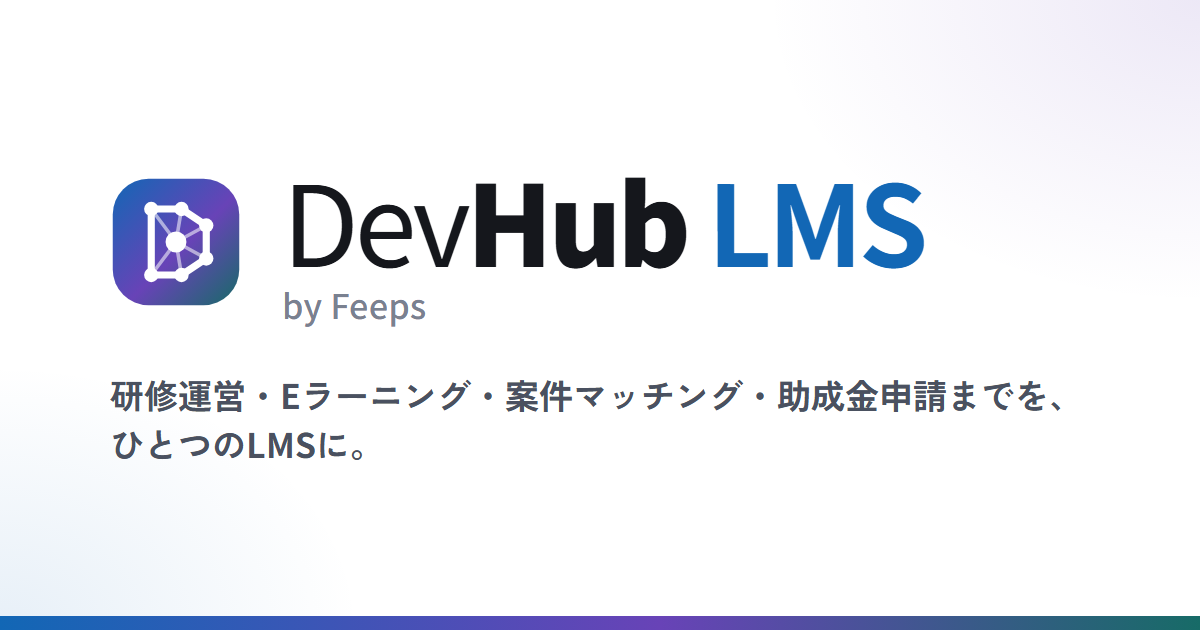
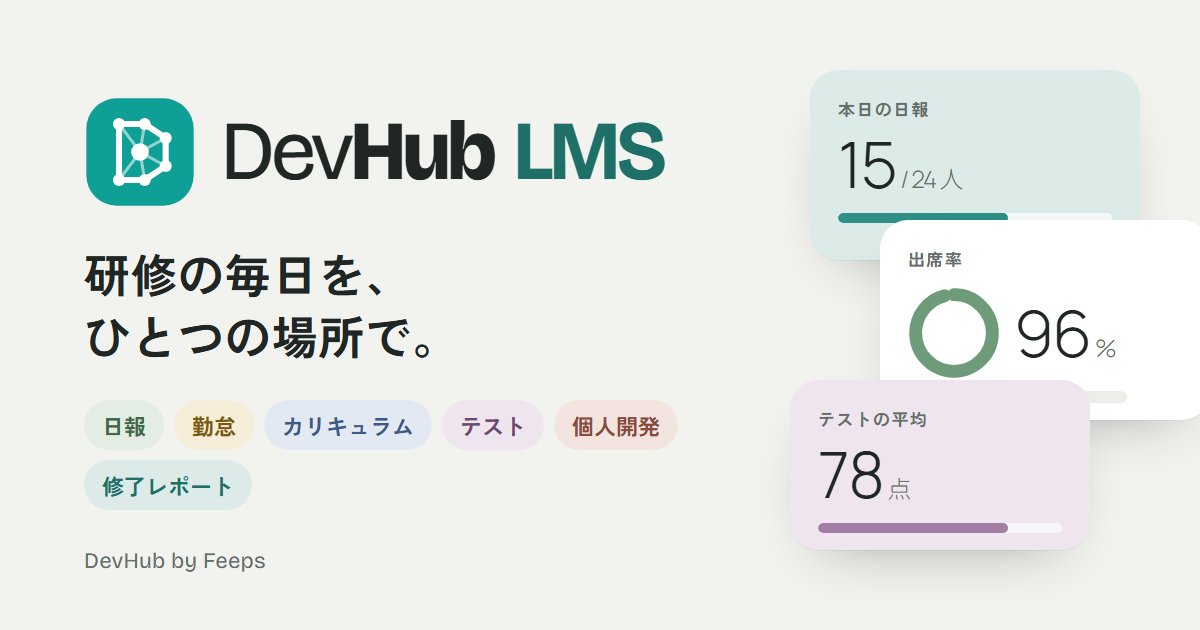
feat: タブ・お気に入りのアイコンと URL のプレビューを新しい LMS のロゴに

diff --git a/index.html b/index.html
@@ -4,12 +4,14 @@
     <meta charset="UTF-8" />
     <meta name="viewport" content="width=device-width, initial-scale=1.0, viewport-fit=cover" />
     <title>DevHub LMS</title>
-    <meta name="description" content="研修運営・Eラーニング・案件マッチング・助成金申請までを、ひとつのLMSに。DevHub LMS。" />
-    <meta name="theme-color" content="#1267B5" />
+    <meta name="description" content="研修の日報・勤怠・カリキュラム・テストから、修了レポート・助成金まで。" />
+    <meta name="theme-color" content="#F2F3EF" />
 
-    <link rel="icon" type="image/svg+xml" href="/favicon.svg" />
-    <link rel="icon" type="image/x-icon" href="/favicon.ico" sizes="any" />
-    <link rel="apple-touch-icon" href="/apple-touch-icon.png" />
+    <link rel="icon" href="/favicon.ico?v=20261110" sizes="any" />
+    <link rel="icon" type="image/svg+xml" href="/favicon.svg?v=20261110" />
+    <link rel="apple-touch-icon" sizes="180x180" href="/apple-touch-icon.png" />
+    <link rel="manifest" href="/site.webmanifest" />
+    <meta name="apple-mobile-web-app-title" content="DevHub LMS" />
     <!-- ロゴの文字（DevHub LMS / Learning）。2026-10-12 テノラボの入口ボタン用の Dela Gothic One から置きかえ -->
     <link rel="stylesheet" href="https://fonts.googleapis.com/css2?family=Bricolage+Grotesque:opsz,wght@12..96,400;12..96,700;12..96,800&amp;display=swap" />
     <!-- 新しい LMS（セージ、2026-11-02）の文字：見出し Zen Kaku Gothic Antique・本文 Zen Kaku Gothic New・数字 Manrope -->
@@ -18,15 +20,18 @@
     <meta property="og:type" content="website" />
     <meta property="og:site_name" content="DevHub by Feeps" />
     <meta property="og:title" content="DevHub LMS" />
-    <meta property="og:description" content="研修運営・Eラーニング・案件マッチング・助成金申請までを、ひとつのLMSに。" />
-    <meta property="og:image" content="https://app.devhub-lms.com/og-image.png" />
+    <meta property="og:description" content="研修の日報・勤怠・カリキュラム・テストから、修了レポート・助成金まで。" />
+    <meta property="og:image" content="https://app.devhub-lms.com/og-image.png?v=20261110" />
+    <meta property="og:image:width" content="1200" />
+    <meta property="og:image:height" content="630" />
+    <meta property="og:image:alt" content="DevHub LMS" />
     <meta property="og:url" content="https://app.devhub-lms.com/" />
     <meta property="og:locale" content="ja_JP" />
 
     <meta name="twitter:card" content="summary_large_image" />
     <meta name="twitter:title" content="DevHub LMS" />
-    <meta name="twitter:description" content="研修運営・Eラーニング・案件マッチング・助成金申請までを、ひとつのLMSに。" />
-    <meta name="twitter:image" content="https://app.devhub-lms.com/og-image.png" />
+    <meta name="twitter:description" content="研修の日報・勤怠・カリキュラム・テストから、修了レポート・助成金まで。" />
+    <meta name="twitter:image" content="https://app.devhub-lms.com/og-image.png?v=20261110" />
   </head>
   <body>
     <div id="root"></div>
